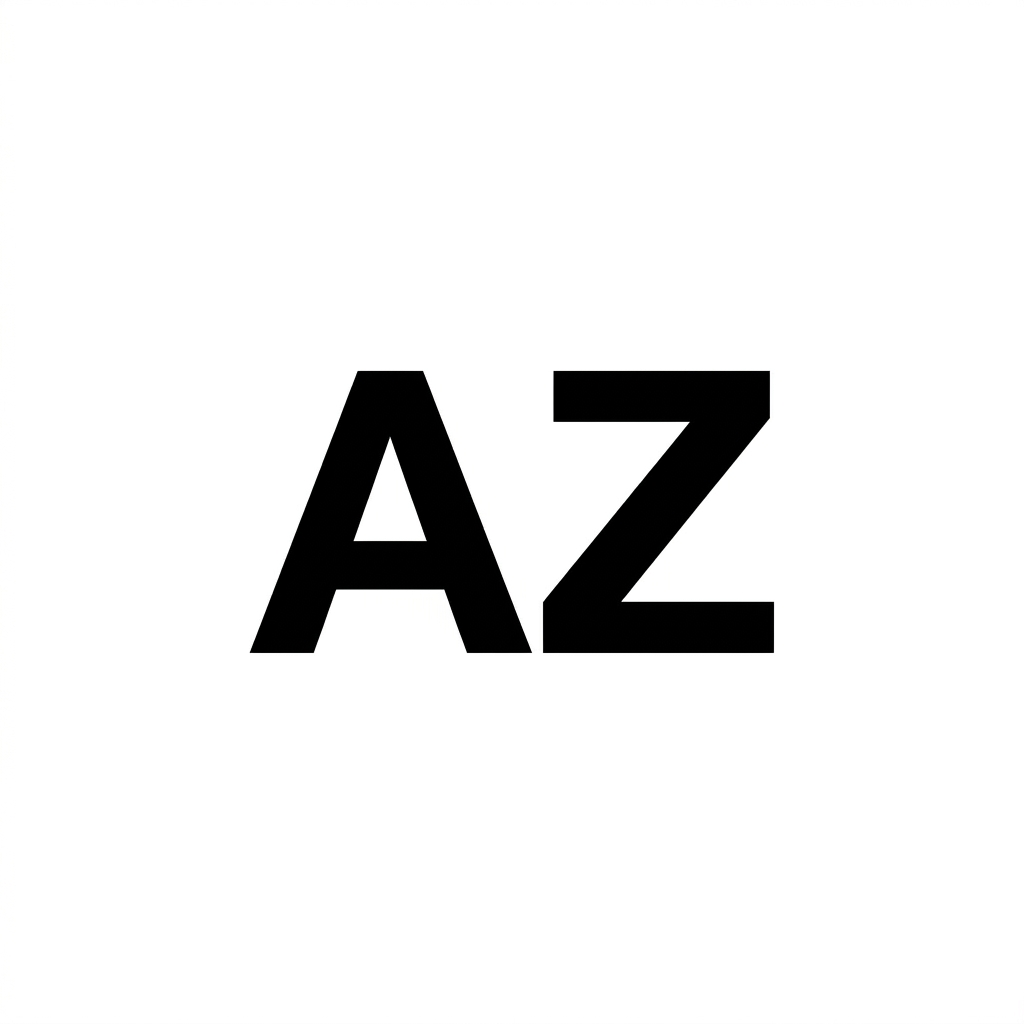
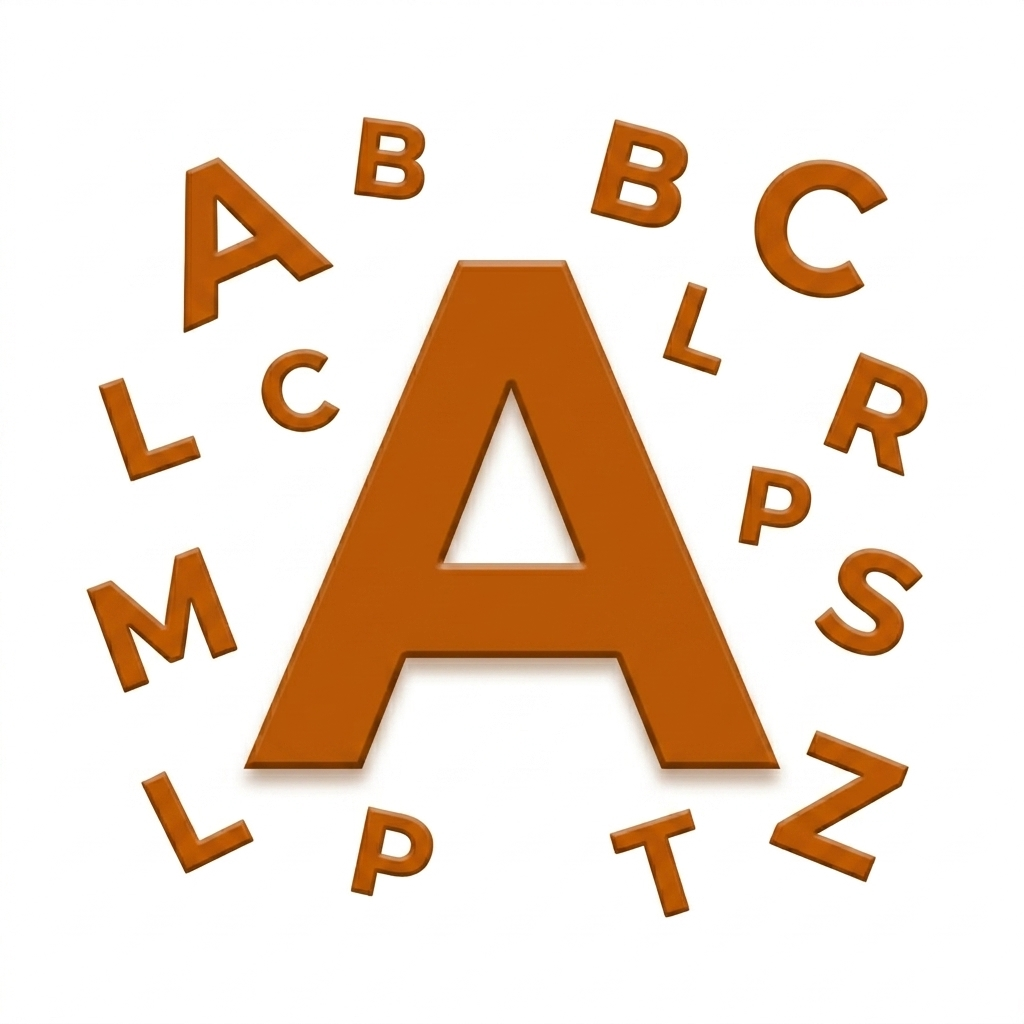
Improved AI's articulation

diff --git a/src/screens/GameScreen.tsx b/src/screens/GameScreen.tsx
@@ -221,8 +221,8 @@ export const GameScreen: React.FC<Props> = ({ route, navigation }) => {
     setPhase('DICTATION');
     Speech.stop();
     Speech.speak(word.toLowerCase(), {
-      language: 'en',
-      rate: 0.9,
+      language: 'en-US',
+      rate: 0.75,
       onDone: () => {
         startInput();
       },
@@ -237,7 +237,7 @@ export const GameScreen: React.FC<Props> = ({ route, navigation }) => {
     const penalty = difficulty === 'Olympiad' ? 4 : 2;
     setPenaltySeconds(prev => prev + penalty);
     Speech.stop();
-    Speech.speak(targetWord.toLowerCase(), { language: 'en', rate: 0.9 });
+    Speech.speak(targetWord.toLowerCase(), { language: 'en-US', rate: 1 });
   };
 
   const startInput = () => {
@@ -374,7 +374,7 @@ export const GameScreen: React.FC<Props> = ({ route, navigation }) => {
 
     setUsedThisWord(prev => new Set(prev).add(type));
     setLifelinesRemaining(prev => prev - 1);
-    
+
     const store = useStore.getState();
     if (store.recordLifelineUsage) store.recordLifelineUsage(type);
 
@@ -400,7 +400,7 @@ export const GameScreen: React.FC<Props> = ({ route, navigation }) => {
     if (spokenText) {
       Speech.stop();
       const sanitizedSpeech = spokenText.replace(/___+/g, 'blank');
-      Speech.speak(sanitizedSpeech, { language: 'en', rate: 0.95 });
+      Speech.speak(sanitizedSpeech, { language: 'en-US', rate: 0.85 });
     }
 
     if (settings.sfx) Haptics.impactAsync(Haptics.ImpactFeedbackStyle.Medium);
@@ -468,7 +468,9 @@ export const GameScreen: React.FC<Props> = ({ route, navigation }) => {
               </TouchableOpacity>
               <Text style={styles.headerText}>{mode.toUpperCase()} · {difficulty}</Text>
             </View>
-            <Text style={styles.streakText}>STREAK: {consecutiveCorrect}</Text>
+            {mode !== 'compete' && (
+              <Text style={styles.streakText}>STREAK: {consecutiveCorrect}</Text>
+            )}
           </View>
 
           {/* ── Toolbar: lifelines + repeat + counter (INPUT phase only) ── */}

diff --git a/src/screens/SplashScreen.tsx b/src/screens/SplashScreen.tsx
@@ -1,6 +1,7 @@
 import React, { useEffect, useRef } from 'react';
 import { View, StyleSheet, Text, Animated, Dimensions } from 'react-native';
 import { NativeStackScreenProps } from '@react-navigation/native-stack';
+import * as Speech from 'expo-speech';
 import { RootStackParamList } from '../navigation/AppNavigator';
 import { COLORS } from '../theme/colors';
 import { TYPOGRAPHY } from '../theme/typography';
@@ -23,6 +24,9 @@ export const SplashScreen: React.FC<Props> = ({ navigation }) => {
   const symbol4Anim = useRef(new Animated.Value(0)).current;
 
   useEffect(() => {
+    // Warm up the speech engine to prevent delay on first use
+    Speech.speak('', { volume: 0 });
+
     Animated.parallel([
       Animated.timing(fadeAnim, {
         toValue: 1,